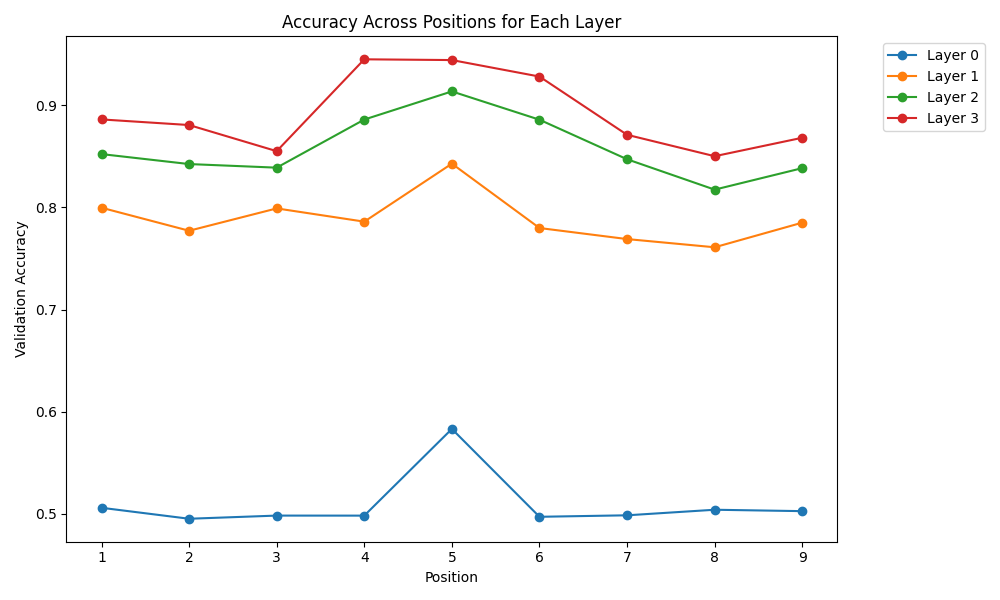
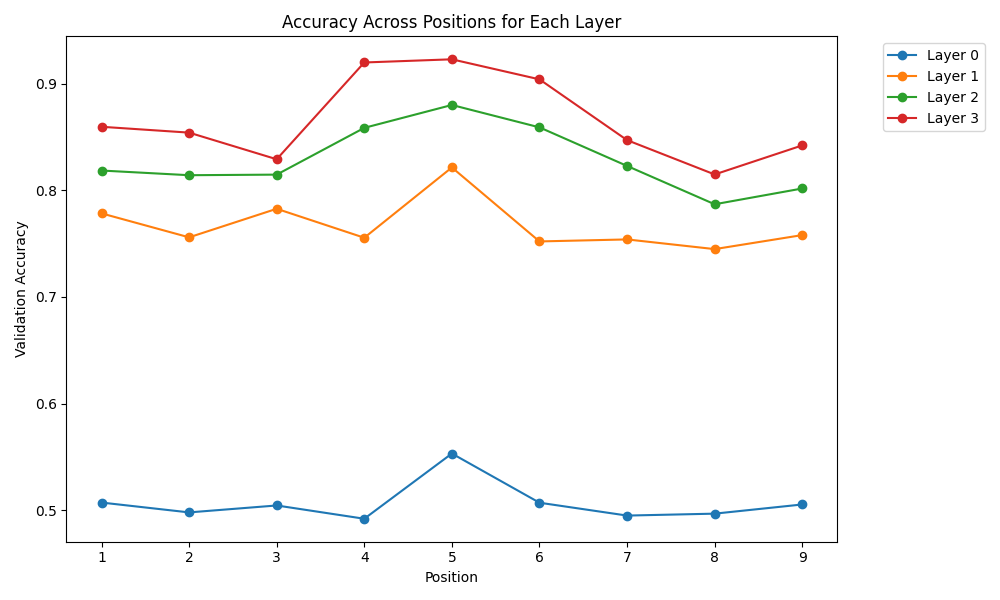
add examples

diff --git a/probing_txt.py b/probing_txt.py
@@ -165,15 +165,16 @@ def generate_graphs(all_results):
     positions = list(range(1, 10))
     accuracies = [[result['val_accuracy'] for result in layer_results] for layer_results in all_results]
 
-    # Plotting accuracy across layers
+    # Plotting average accuracy across layers
     plt.figure(figsize=(10, 6))
-    for i, pos in enumerate(positions):
-        plt.plot(layers, [acc[i] for acc in accuracies], marker='o', label=f'Position {pos}')
-
+    avg_accuracies = [np.mean(acc) for acc in accuracies]
+    plt.plot(layers, avg_accuracies, marker='o')
     plt.xlabel('Layer')
-    plt.ylabel('Validation Accuracy')
-    plt.title('Accuracy Across Layers for Each Position')
-    plt.legend(bbox_to_anchor=(1.05, 1), loc='upper left')
+    plt.ylabel('Average Validation Accuracy')
+    plt.title('Average Accuracy Across Layers')
+    plt.xticks(layers)  # Ensure only whole number layers are shown
+    plt.ylim(0, 1)  # Assuming accuracy is between 0 and 1
+    plt.grid(True)
     plt.tight_layout()
     plt.savefig('assets/accuracy_across_layers.png')
     plt.close()
@@ -182,7 +183,6 @@ def generate_graphs(all_results):
     plt.figure(figsize=(10, 6))
     for i, layer in enumerate(layers):
         plt.plot(positions, accuracies[i], marker='o', label=f'Layer {layer}')
-
     plt.xlabel('Position')
     plt.ylabel('Validation Accuracy')
     plt.title('Accuracy Across Positions for Each Layer')
@@ -207,11 +207,11 @@ def main():
     with open("data/txt/all_tic_tac_toe_games.csv", 'r') as file:
         all_games = [f";{row.split(',')[0]}" for row in file.readlines()[1:]]
     
-    # Randomly select 10% of the games
-    num_games_to_select = len(all_games) // 10
+    # Randomly select 20% of the games
+    num_games_to_select = len(all_games) // 20
     games = random.sample(all_games, num_games_to_select)
     
-    print(f"Processing {len(games)} games (10% of total)")
+    print(f"Processing {len(games)} games (20% of total)")
     
     labels = prepare_labels(games)
     

diff --git a/README.md b/README.md
@@ -24,6 +24,8 @@ pip install torch numpy transformers datasets tiktoken wandb tqdm
 
 ### Training the Text-Based Transformer
 
+Example of a tic-tac-toe game : ```;X21 O23 X22 O31 X33 O32 X11``` 
+
 ```bash
 cd platonic_representation
 python data/txt/prepare_txt.py
@@ -37,6 +39,8 @@ python sample.py --out_dir=out-shakespeare-char
 ```
 
 ### Training the Image-Based Transformer
+
+![A image game](assets/game_1.png)
 
 ```bash
 cd platonic_representation
